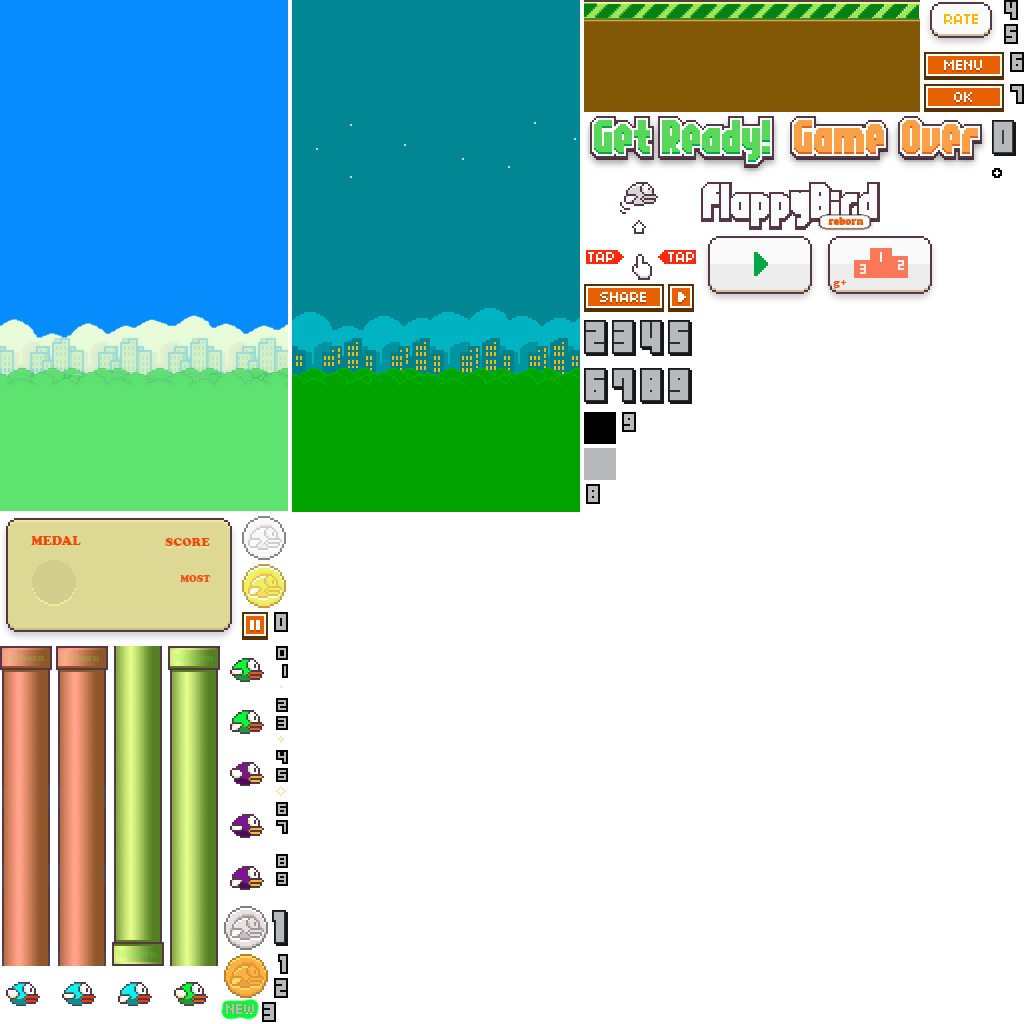
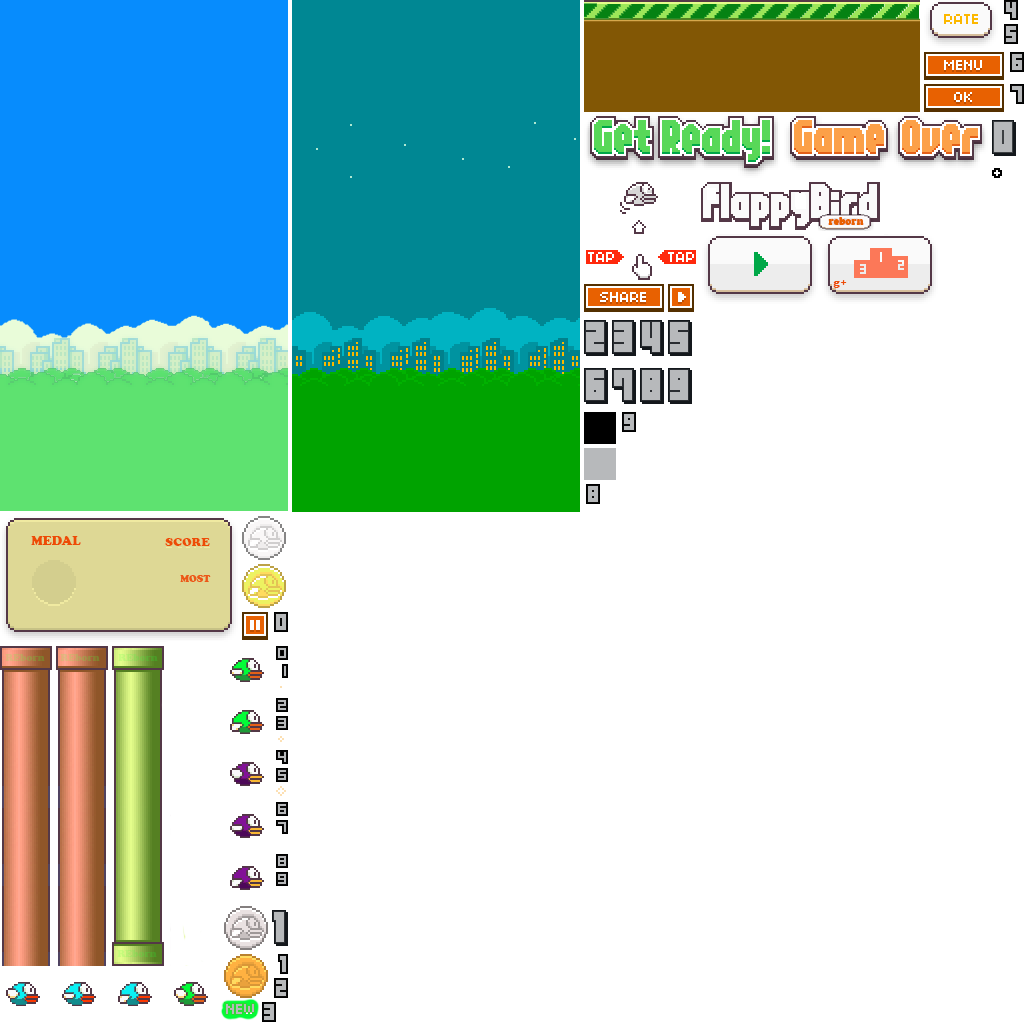
added pipes & their movements, but there is an error

Changed region(s): [[0.0938, 0.625, 0.2188, 0.9688]]

diff --git a/src/Game.cpp b/src/Game.cpp
@@ -10,23 +10,16 @@ void Game::start()
 	if (gameState != Uninit)
 		return;
 
+	srand(time(NULL));
 	mainWindow.create(sf::VideoMode(SCREEN_WIDTH, SCREEN_HEIGHT), "Flap Those Wings", sf::Style::Titlebar | sf::Style::Close);
 	mainWindow.setPosition(sf::Vector2i(400, 10));
 
-	background.load("res/graphics.png", sf::IntRect(0, 0, 287, 510)); //load bg
-	
-	ground[0].load("res/graphics.png", sf::IntRect(584, 0, 335, 111)); //load the ground
-	ground[1].load("res/graphics.png", sf::IntRect(584, 0, 335, 111)); //load the ground
-	
 	bird.load("res/graphics.png", sf::IntRect(0, 0, 1024, 1024)); //load the bird
 	
 	birdAnimation.setSpriteSheet(bird.getTexture());
 	birdAnimation.addFrame(sf::IntRect (174, 982, 34, 24));
 	birdAnimation.addFrame(sf::IntRect(230, 658, 34, 24));
 	birdAnimation.addFrame(sf::IntRect(230, 710, 34, 24));
-
-	ground[0].setPosition(0.f, 399.f);
-	ground[1].setPosition(287.f, 399.f);
 
 	gameState = Playing;
 
@@ -49,7 +42,7 @@ void Game::gameLoop()
 	{
 		case Playing:
 		{
-			AnimatedSprite animatedBirdSprite(sf::seconds(0.1f), false, true);
+			AnimatedSprite animatedBirdSprite(sf::seconds(0.2f), false, true);
 			animatedBirdSprite.setOrigin(17, 12);
 			animatedBirdSprite.setPosition(sf::Vector2f(SCREEN_WIDTH/5, SCREEN_HEIGHT/2-25));
 
@@ -59,7 +52,6 @@ void Game::gameLoop()
 			{				
 				while (atMenu == 0)
 				{
-					animatedBirdSprite.setFrameTime(sf::seconds(0.2f));
 					if (mainWindow.pollEvent(currentEvent))
 					{
 						mainWindow.clear(sf::Color::Black);
@@ -84,27 +76,18 @@ void Game::gameLoop()
 
 					animatedBirdSprite.play(birdAnimation);
 
-					//bird flapping motion
-					animatedBirdSprite.update(frameTime);
-
-					//ground movement
-					ground[0].getSprite().move(-0.07f, 0.f);
-					ground[1].getSprite().move(-0.07f, 0.f);
-					if (ground[0].getPosition().x < -287)
-						ground[0].setPosition(287, 399);
-					else if (ground[1].getPosition().x < -287)
-						ground[1].setPosition(287, 399);
+					//UPDATE
+					map.update("ground");
+					animatedBirdSprite.update(frameTime); //bird flapping motion
 
 					//DRAW
-					background.draw(mainWindow);
+					map.draw(mainWindow, atMenu);
 					mainWindow.draw(animatedBirdSprite);
-					ground[0].draw(mainWindow);
-					ground[1].draw(mainWindow);
 					mainWindow.display();
 				}
 				if (atMenu != 0)
 				{
-					cout << "playing" << endl;
+					animatedBirdSprite.setFrameTime(sf::seconds(0.15f));
 					if (mainWindow.pollEvent(currentEvent))
 					{
 						mainWindow.clear(sf::Color::Black);
@@ -120,7 +103,6 @@ void Game::gameLoop()
 							{
 								//update bird
 							}
-						
 
 						if (currentEvent.type == sf::Event::KeyPressed && currentEvent.key.code == sf::Keyboard::P)
 						{
@@ -130,25 +112,16 @@ void Game::gameLoop()
 					}
 
 					frameTime = frameClock.restart();
-
 					animatedBirdSprite.play(birdAnimation);
 
-					//bird flapping motion
-					animatedBirdSprite.update(frameTime);
-
-					//ground movement
-					ground[0].getSprite().move(-0.07f, 0.f);
-					ground[1].getSprite().move(-0.07f, 0.f);
-					if (ground[0].getPosition().x < -287)
-						ground[0].setPosition(287, 399);
-					else if (ground[1].getPosition().x < -287)
-						ground[1].setPosition(287, 399);
+					//UPDATE
+					map.update("ground");
+					map.update("pipes");
+					animatedBirdSprite.update(frameTime); //bird flapping motion
 
 					//DRAW
-					background.draw(mainWindow);
+					map.draw(mainWindow, atMenu);
 					mainWindow.draw(animatedBirdSprite);
-					ground[0].draw(mainWindow);
-					ground[1].draw(mainWindow);
 					mainWindow.display();
 				}
 			

diff --git a/src/Map.cpp b/src/Map.cpp
@@ -1,0 +1,72 @@
+#include "Map.h"
+
+Map::Map()
+{
+	background.load("res/graphics.png", sf::IntRect(0, 0, 287, 510));
+
+	ground[0].load("res/graphics.png", sf::IntRect(584, 0, 335, 111));
+	ground[1].load("res/graphics.png", sf::IntRect(584, 0, 335, 111));
+	ground[0].setPosition(0.f, 399.f);
+	ground[1].setPosition(287.f, 399.f);
+
+	configurations[0] = sf::Vector2f(333, 250);
+	configurations[1] = sf::Vector2f(240, 157);
+	configurations[2] = sf::Vector2f(151, 68);
+	
+	for (int i = 0; i < 2; i++)
+	{
+		bottomPipes[i].load("res/graphics.png", sf::IntRect(112, 646, 52, 320));
+		topPipes[i].load("res/graphics.png", sf::IntRect(112, 646, 52, 320));
+		topPipes[i].getSprite().setOrigin(0.0f, 320.f);
+			
+
+		bottomPipes[i].setPosition(287 + i * spacing, configurations[1].x);
+		topPipes[i].setPosition(287 + i * spacing, configurations[1].y);
+	}
+}
+
+void Map::update(string object)
+{
+	//ground movement
+	if (object == "ground")
+	{
+		ground[0].getSprite().move(-0.07f, 0.f);
+		ground[1].getSprite().move(-0.07f, 0.f);
+		if (ground[0].getPosition().x < -287)
+			ground[0].setPosition(287, 399);
+		else if (ground[1].getPosition().x < -287)
+			ground[1].setPosition(287, 399);
+	}
+
+	//pipes movement
+	if (object == "pipes")
+	{
+		for (int i = 0; i <= 2; i++)
+		{
+			bottomPipes[i].getSprite().move(-0.07f, 0);
+			topPipes[i].getSprite().move(-0.07f, 0);
+
+			if (bottomPipes[i].getPosition().x < -52 && topPipes[i].getPosition().x < -52)
+			{
+				configNum = rand() % 3;
+				bottomPipes[i].setPosition(287, configurations[configNum].x);
+				topPipes[i].setPosition(287, configurations[configNum].y);
+			}
+		}
+	}
+}
+
+void Map::draw(sf::RenderWindow & window, int atMenu)
+{
+	background.draw(window);
+	if (atMenu != 0)
+	{
+		bottomPipes[0].draw(window);
+		bottomPipes[1].draw(window);
+
+		topPipes[0].draw(window);
+		topPipes[1].draw(window);
+	}
+	ground[0].draw(window);
+	ground[1].draw(window);
+}

diff --git a/include/Game.h b/include/Game.h
@@ -1,5 +1,8 @@
 #pragma once
 
+#include <iostream>
+#include <time.h>
+
 #include "SFML\Window.hpp"
 #include "SFML\Graphics.hpp"
 #include "SFML\Audio.hpp"
@@ -7,6 +10,7 @@
 #include "AnimatedSprite.h"
 #include "Animation.h"
 #include "GameObjects.h"
+#include "Map.h"
 
 class Game
 {
@@ -38,10 +42,7 @@ private:
 	GameState gameState;
 	sf::RenderWindow mainWindow;
 
-	//from animation library by LaurentGomila
-	Animation birdAnimation;
-
+	Animation birdAnimation; //from animation library by LaurentGomila
 	GameObjects bird;
-	GameObjects background;
-	GameObjects ground[2];
+	Map map;
 };

diff --git a/include/Map.h b/include/Map.h
@@ -1,0 +1,26 @@
+#pragma once
+
+#include <cstdlib>
+
+#include "GameObjects.h"
+
+class Map
+{
+public:
+	Map();
+	void update(string object);
+	void draw(sf::RenderWindow & window, int atMenu);
+	
+	int configNum;
+
+private:
+	GameObjects background;
+	GameObjects ground[2];
+	GameObjects bottomPipes[2];
+	GameObjects topPipes[2];
+	sf::Vector2f configurations[3];
+	
+	int spacing = 160;
+	int verticalSpacing = 83;
+
+};

diff --git a/include/GameObjects.h b/include/GameObjects.h
@@ -14,8 +14,6 @@ public:
 	void load(string imagePath, sf::IntRect toShow);
 	void draw(sf::RenderWindow & window);
 
-	virtual void update();
-
 	void setPosition(float x, float y); //sets position of object
 	sf::Vector2f getPosition() const; //gets position of the object
 

diff --git a/src/GameObjects.cpp b/src/GameObjects.cpp
@@ -22,10 +22,6 @@ void GameObjects::draw(sf::RenderWindow & window)
 		window.draw(sprite);
 }
 
-//to be overloaded
-void GameObjects::update()
-{}
-
 void GameObjects::setPosition(float x, float y)
 {
 	if (isLoaded)
